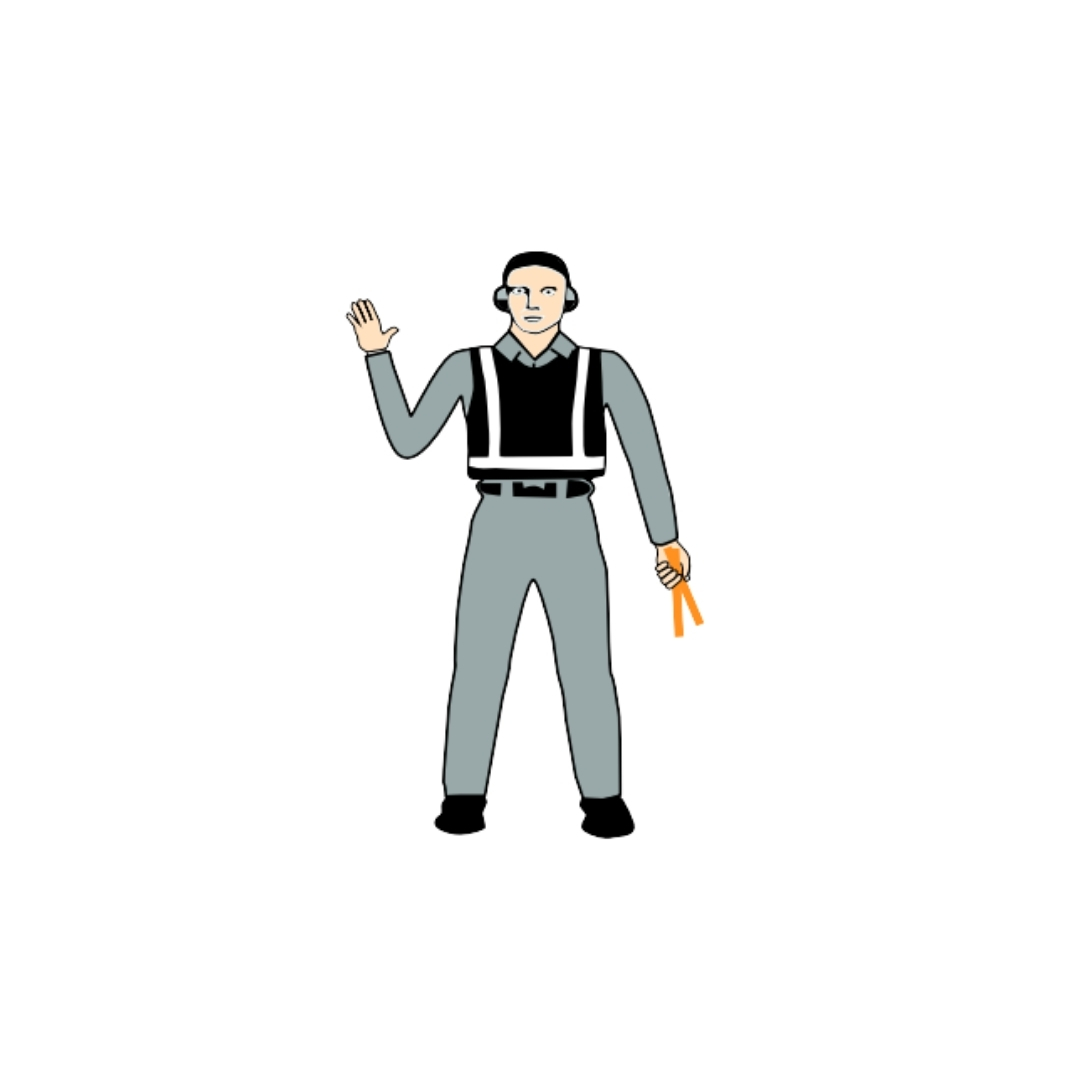
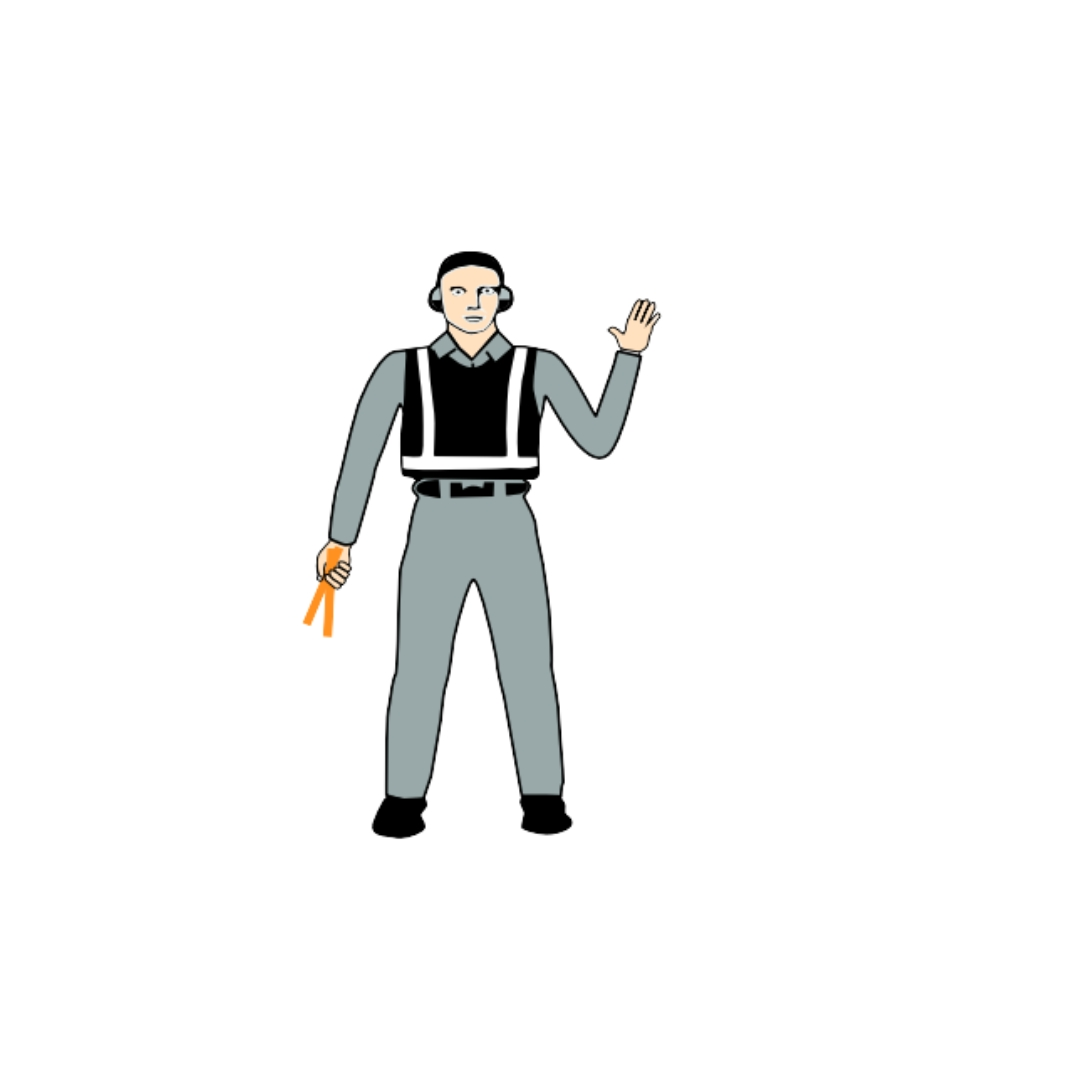
Flipped visual instructions and made it smaller

Changed region(s): [[0.275, 0.2139, 0.6722, 0.7944]]

diff --git a/User Interface/main2.py b/User Interface/main2.py
@@ -24,9 +24,9 @@ class Game:
             sys.exit()
 
         self.frame_surface = None
-        self.training_started = False
+        self.training_started = True
         self.instruction = "None"
-        self.current_action = 7
+        self.current_action = 0
         self.button_states = {
             "END TRAINING": False,
             "START": False
@@ -152,48 +152,48 @@ class Game:
             self.guide_videos = {}
             self.action_configs = {
                 "straight_ahead": {
-                    "offset": (54, 10),
-                    "size": 450,
+                    "offset": (64, 10),
+                    "size": 450 * 0.95,
                     "frame_delay": 5,
                 },
                 "turn_left": {
-                    "offset": (74, 10),
-                    "size": 450,
+                    "offset": (64, 10),
+                    "size": 450 * 0.95,
                     "frame_delay": 5,
                 },
                 "turn_right": {
-                    "offset": (54, 10),
-                    "size": 450,
+                    "offset": (43, 10),
+                    "size": 450 * 0.95,
                     "frame_delay": 5,
                 },
                 "stop": {
-                    "offset": (66, 12),
-                    "size": 450,
+                    "offset": (52, 12),
+                    "size": 450 * 0.95,
                     "frame_delay": 10,
                 },
                 "cut_engine": {
-                    "offset": (122, 55),
-                    "size": 570,
+                    "offset": (113, 55),
+                    "size": 570 * 0.95,
                     "frame_delay": 7,
                 },
                 "start_engine": {
-                    "offset": (56, 0),
-                    "size": 430,
+                    "offset": (43, 0),
+                    "size": 430 * 0.95,
                     "frame_delay": 5,
                 },
                 "set_brakes": {
-                    "offset": (62, 0),
-                    "size": 450,
+                    "offset": (27, 0),
+                    "size": 450 * 0.95,
                     "frame_delay": 10,
                 },
                 "chocks_inserted": {
                     "offset": (53, 0),
-                    "size": 430,
+                    "size": 430 * 0.95,
                     "frame_delay": 7,
                 },
                 "all_clear": {
-                    "offset": (54, 0),
-                    "size": 430,
+                    "offset": (44, 0),
+                    "size": 430 * 0.95,
                     "frame_delay": 10,
                 },
             }
@@ -214,7 +214,7 @@ class Game:
 
                 for path in frame_paths:
                     img = pygame.image.load(path).convert()
-                    if action == "turn_left":
+                    if action not in ["turn_right", "set_brakes"]:
                         img = pygame.transform.flip(img, True, False)
                     scaled = pygame.transform.smoothscale(img, (int(size * self.scale), int(size * self.scale)))
                     frames.append(scaled)
@@ -447,6 +447,7 @@ class Game:
             # Draw guide
             if self.training_started:
                 self.draw_guide_animation(win, self.actions[self.current_action], self.frame_delays[self.current_action])
+                # pygame.draw.line(win, (0, 0, 0), (self.lp_top_rect.centerx, 0), (self.lp_top_rect.centerx, self.rp_bottom_rect.bottom), 1)
 
             scaled_frame = pygame.transform.smoothscale(self.frame_surface, self.frame_draw_size)
             win.blit(scaled_frame, self.frame_draw_pos)
@@ -694,7 +695,7 @@ def game_loop():
         "All Clear": 1.00
     }
     gameover = GameOver(win_size, scores)
-    game.assessment_stage = True
+    # game.assessment_stage = True
 
     run = True
     while run:
@@ -782,6 +783,9 @@ def game_loop():
                         game.buttons["END TRAINING"][1] = False
                         game.button_states["START"] = True
                         game.button_states["END TRAINING"] = False
+
+                if event.key == pygame.K_w:
+                    game.current_action += 1
 
         if game.training_started:
             if not pygame.mixer.get_busy() and not game.signal_detected:

diff --git a/LSTM/data_gathering.py b/LSTM/data_gathering.py
@@ -1,53 +1,67 @@
-import os
 import cv2
 import numpy as np
+import os
 import mediapipe as mp
+from time import sleep
 
-# Setup MediaPipe Pose
-mp_pose = mp.solutions.pose
-pose = mp_pose.Pose(min_detection_confidence=0.5, min_tracking_confidence=0.5)
+# Setup folder/s for data collection
+DATA_PATH = os.path.join("MP_Data")
+actions = np.array(["straight_ahead", "turn_left", "turn_right"])
+no_sequences = 30  # 30 videos worth of data
+sequence_length = 30  # 30 frames per video
 
-# Define path to videos
-VIDEO_DIR = 'D:\Programming Projects\Repositories\AeroVision\CNN 4\Videos'
-OUTPUT_DIR = 'MP_Data'
+mp_holistic = mp.solutions.holistic
+mp_drawing = mp.solutions.drawing_utils
 
-# Create output directories based on labels
-for filename in os.listdir(VIDEO_DIR):
-    if filename.endswith(".mp4"):
-        label = filename.split('_')[0] + '-' + filename.split('_')[1].split('.')[0]
-        label_dir = os.path.join(OUTPUT_DIR, label)
-        os.makedirs(label_dir, exist_ok=True)
+def mediapipe_detection(image, model):
+    image = cv2.cvtColor(image, cv2.COLOR_BGR2RGB)
+    image.flags.writeable = False
+    results = model.process(image)
+    image.flags.writeable = True
+    image = cv2.cvtColor(image, cv2.COLOR_RGB2BGR)
+    return image, results
 
-# Start frame processing
-for filename in os.listdir(VIDEO_DIR):
-    if not filename.endswith(".mp4"):
-        continue
+def draw_landmarks(image, results):
+    mp_drawing.draw_landmarks(image, results.pose_landmarks, mp_holistic.POSE_CONNECTIONS)
 
-    label = filename.split('_')[0] + '-' + filename.split('_')[1].split('.')[0]
-    label_dir = os.path.join(OUTPUT_DIR, label)
+def extract_keypoints(results):
+    pose = np.array([[res.x, res.y, res.z, res.visibility] 
+                     for res in results.pose_landmarks.landmark]) if results.pose_landmarks else np.zeros((33, 4))
+    return pose.flatten()  # 33 keypoints * 4 = 132
 
-    filepath = os.path.join(VIDEO_DIR, filename)
-    cap = cv2.VideoCapture(filepath)
+# Setup folders
+def setup_datacollection_folder():
+    for action in actions:
+        os.makedirs(os.path.join(DATA_PATH, action), exist_ok=True)
 
-    frame_count = 0
+setup_datacollection_folder()
 
-    while cap.isOpened():
-        success, frame = cap.read()
-        if not success:
-            break
+cap = cv2.VideoCapture(0)
+with mp_holistic.Holistic(min_detection_confidence=0.5, min_tracking_confidence=0.5) as holistic:
+    for action in actions:
+        for sequence in range(no_sequences):
+            print(f"\nStarting collection for {action}, video {sequence}")
+            sleep(2)  # pause for user to prepare
+            window = []  # buffer to hold 30 frames
+            for frame_num in range(sequence_length):
+                ret, frame = cap.read()
+                image, results = mediapipe_detection(frame, holistic)
+                draw_landmarks(image, results)
 
-        # Convert the BGR image to RGB before processing
-        image_rgb = cv2.cvtColor(frame, cv2.COLOR_BGR2RGB)
-        result = pose.process(image_rgb)
+                # Display status
+                cv2.putText(image, f'{action} | Video {sequence} | Frame {frame_num + 1}',
+                            (10, 40), cv2.FONT_HERSHEY_SIMPLEX, 0.7, (0, 255, 0), 2)
 
-        if result.pose_landmarks:
-            # Flatten landmark data to a 99-dim vector (33 landmarks × (x, y, z))
-            landmarks = np.array([[lm.x, lm.y, lm.z] for lm in result.pose_landmarks.landmark]).flatten()
-            np.save(os.path.join(label_dir, f'{frame_count}.npy'), landmarks)
+                keypoints = extract_keypoints(results)
+                window.append(keypoints)
 
-        frame_count += 1
+                cv2.imshow('AeroVision - Data Collection', image)
+                if cv2.waitKey(10) & 0xFF == ord('q'):
+                    break
 
-    cap.release()
+            # Save full 30-frame sequence to one .npy file
+            sequence_path = os.path.join(DATA_PATH, action, f"{sequence}.npy")
+            np.save(sequence_path, np.array(window))  # shape (30, 132)
 
-pose.close()
-print("✅ Data gathering complete.")
+cap.release()
+cv2.destroyAllWindows()

diff --git a/User Interface/main.py b/User Interface/main.py
@@ -238,7 +238,7 @@ class Menu:
 
 class Game:
     ACTIONS         = ["cut_engine", "start_engine", "stop", "straight_ahead", "turn_left", "turn_right"]
-    MODEL_PATH      = r"LSTM 4/best_action_lstm.h5"
+    MODEL_PATH      = r"User Interface/model.h5"
     SEQUENCE_LENGTH = 90
     THRESHOLD       = 0.4
 
